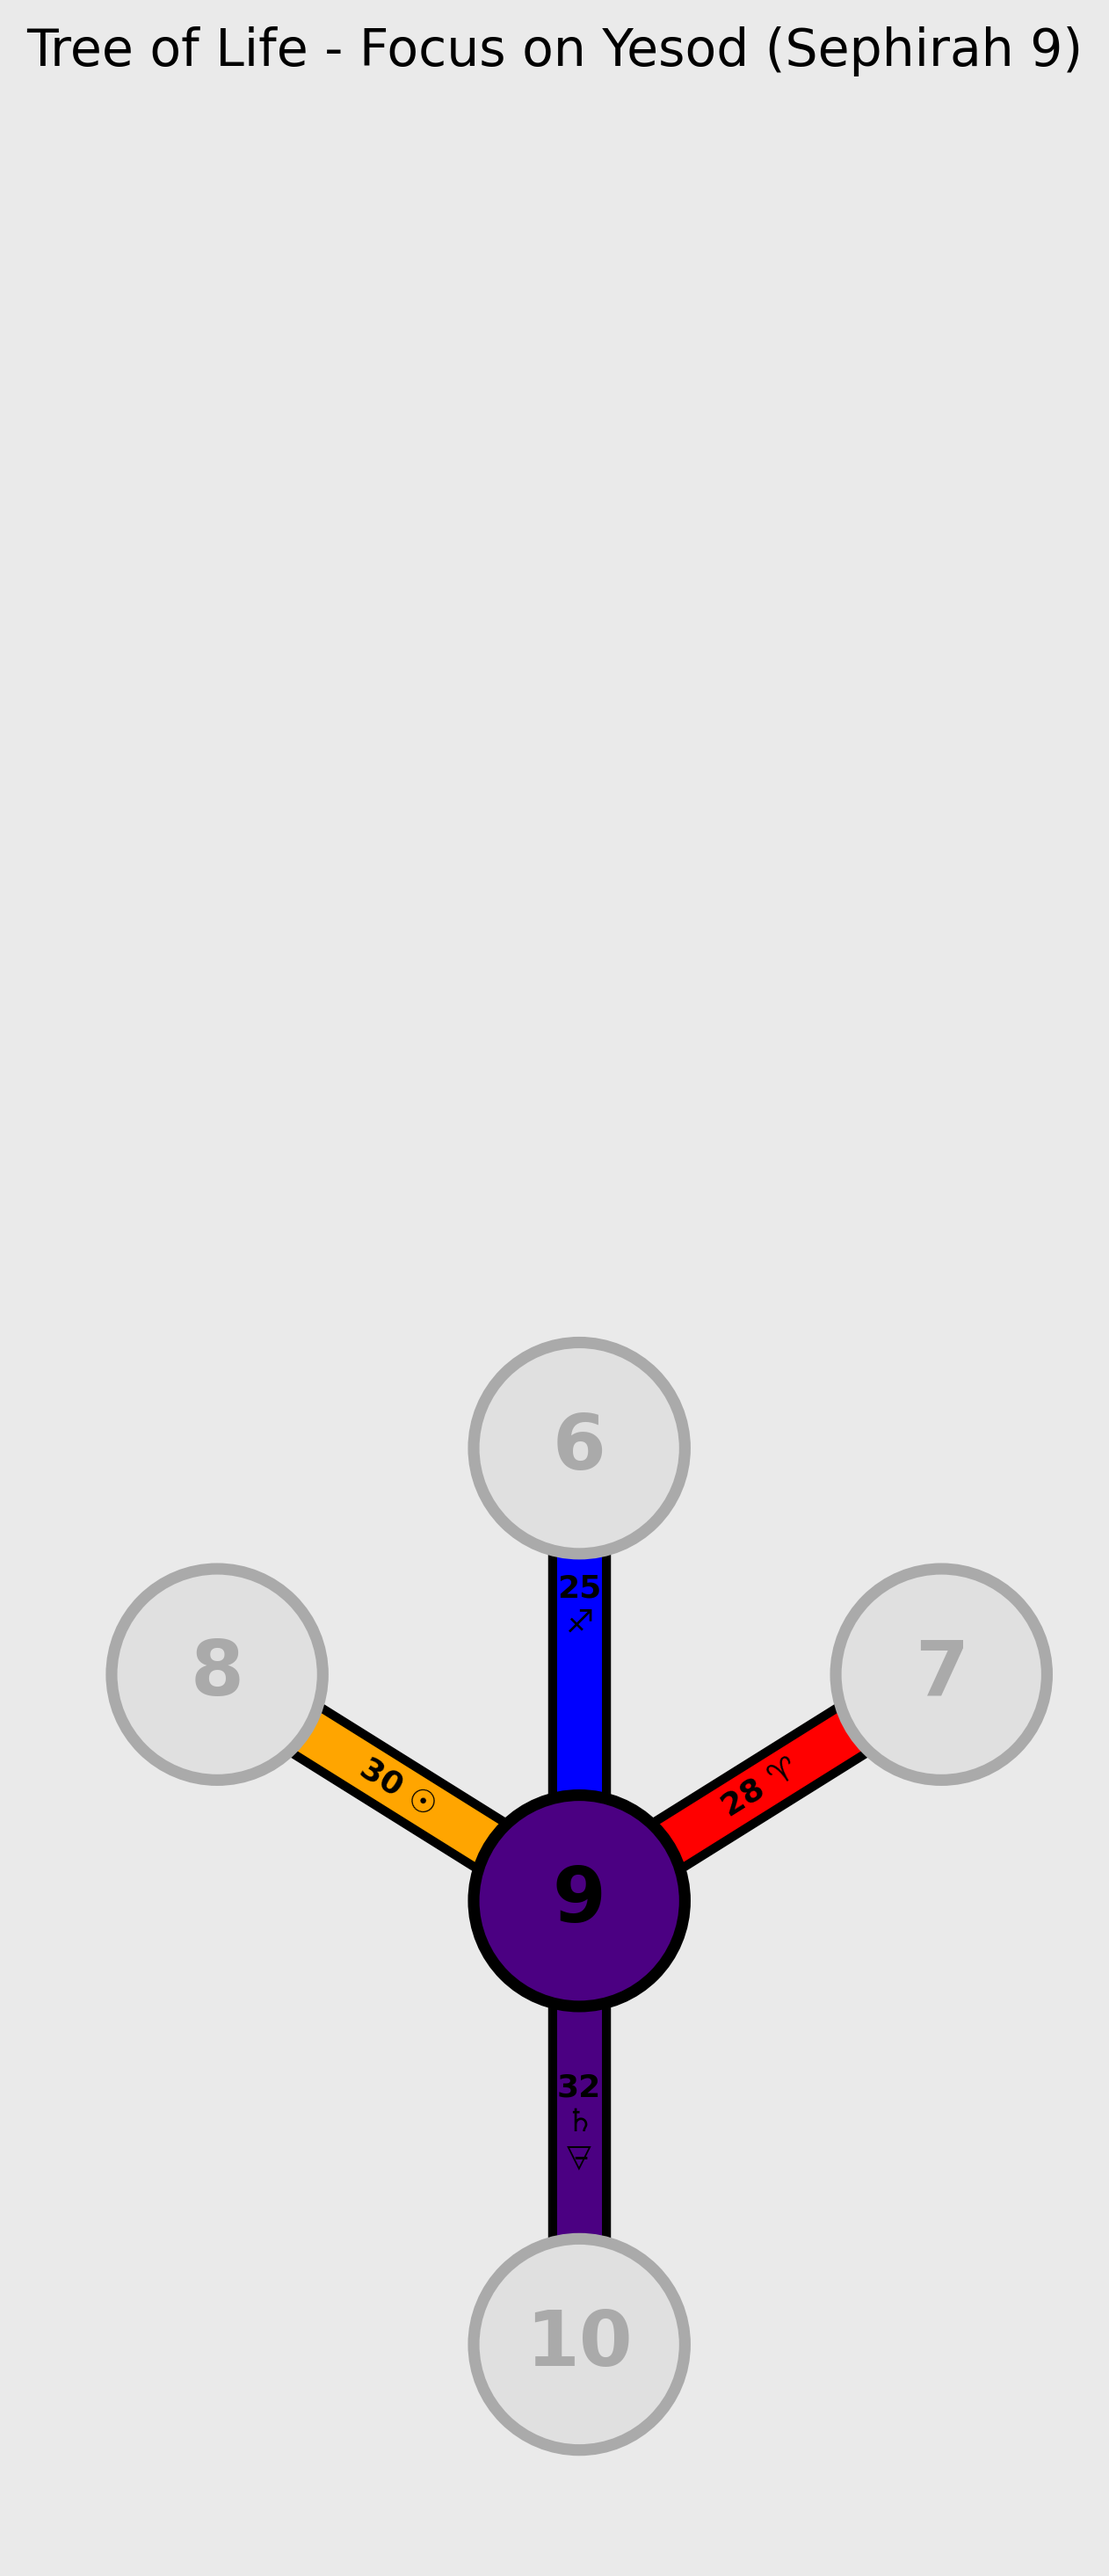
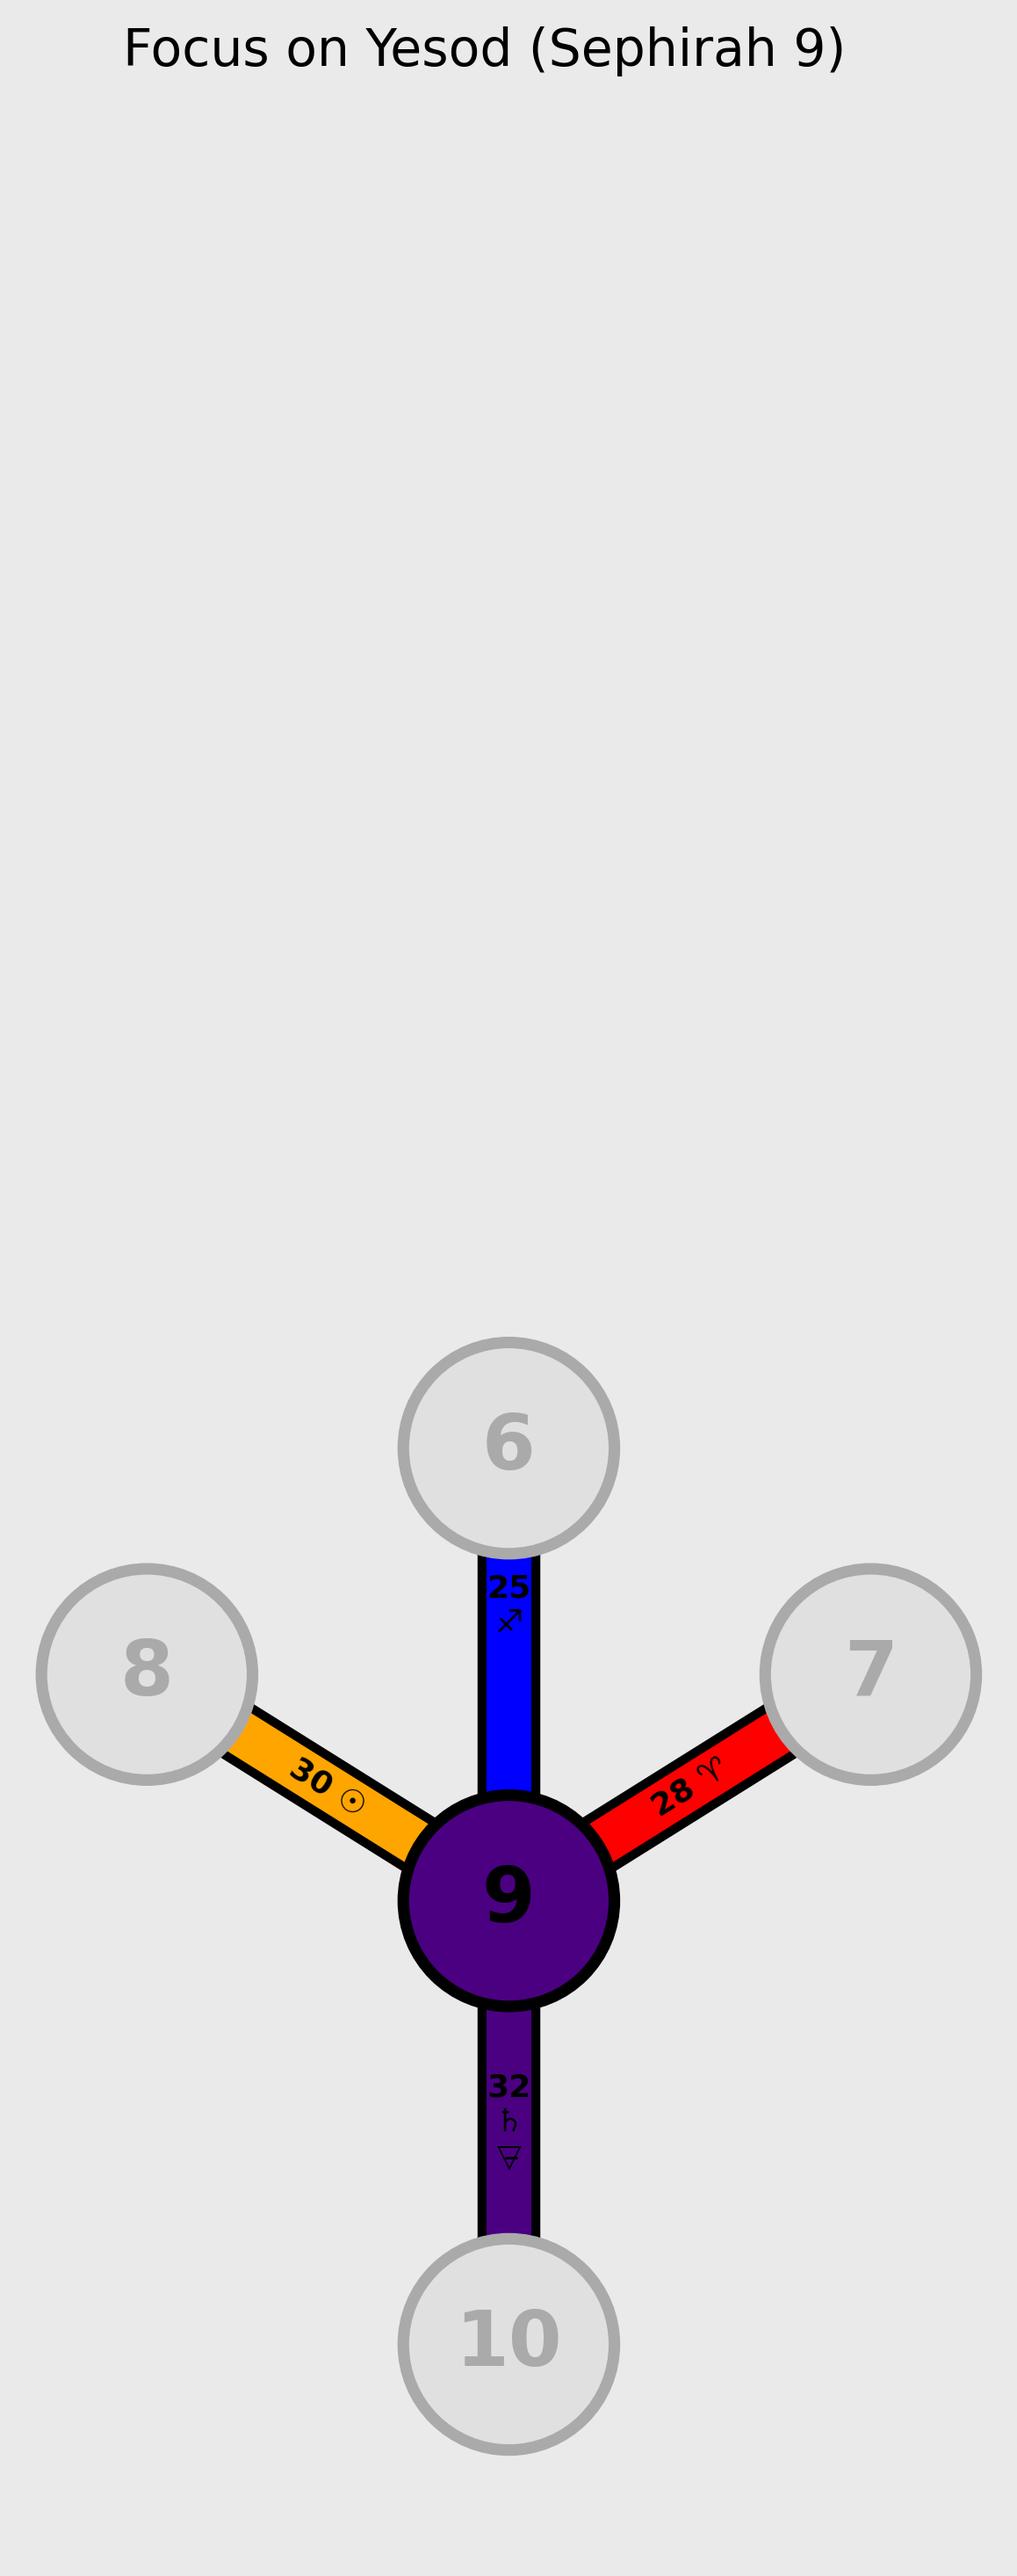
refactor: update Da'ath visibility rules and simplify focus title format

diff --git a/TreeOfLife.py b/TreeOfLife.py
@@ -579,8 +579,8 @@ class TreeOfLife:
                 self._add_kether_radiant_effect(ax, x, y)
 
         # Draw Da'ath (the hidden Sephirah) if it should be included
-        # (either showing all sephiroth or if it's connected to the focused sephirah)
-        if focus_sephirah is None or 0 in sephiroth_to_draw:
+        # (either showing all sephiroth or if Kether or Tiphareth is focused)
+        if focus_sephirah is None or focus_sephirah == 1 or focus_sephirah == 6:
             x, y = self.daath.coord
             color = self.daath.color
 
@@ -601,7 +601,7 @@ class TreeOfLife:
         if show_title:
             if focus_sephirah is not None:
                 sephirah_name = self.sephiroth[focus_sephirah].name
-                title = f"Tree of Life - Focus on {sephirah_name} (Sephirah {focus_sephirah})"
+                title = f"Focus on {sephirah_name} (Sephirah {focus_sephirah})"
                 fig.suptitle(title, fontsize=14)
             else:
                 pass
